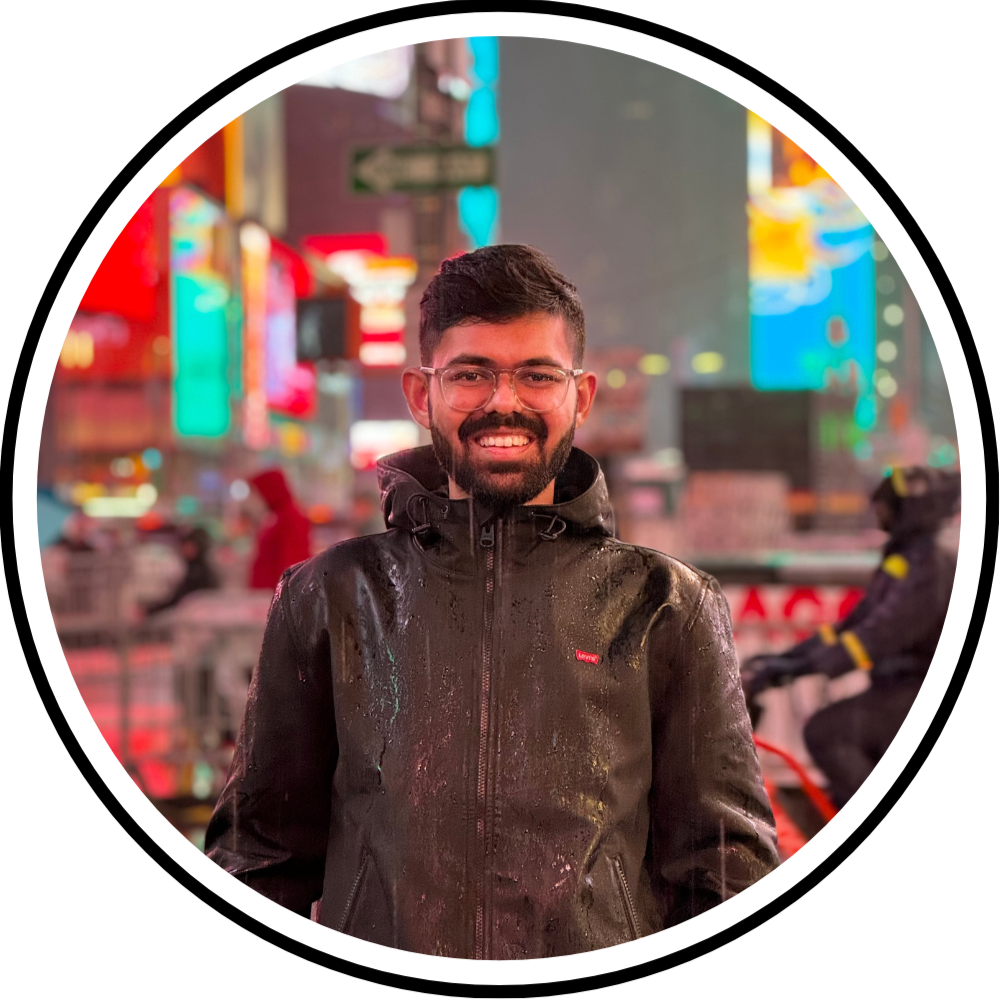
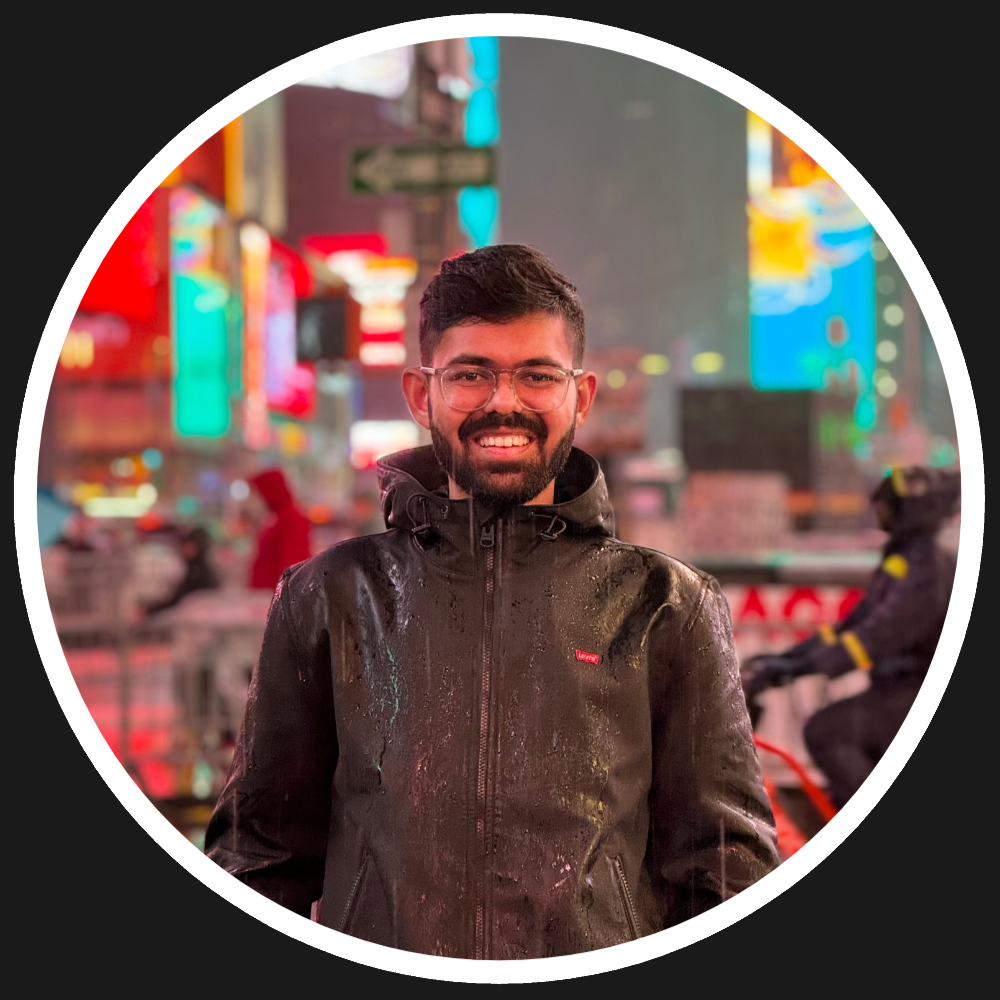
Update Portfolio

Changed region(s): [[0.0, 0.0, 1.0, 1.0]]

diff --git a/css/style.css b/css/style.css
@@ -7,9 +7,10 @@
   padding: 0;
 }
 
-
 body {
   font-family: "Poppins", sans-serif;
+  background-color: #1a1a1a; /* Dark background color */
+  color: #fff; /* Light text color */
 }
 
 html {
@@ -17,7 +18,7 @@ html {
 }
 
 p {
-  color: rgb(85, 85, 85);
+  color: #b3b3b3; /* Lighter text color */
 }
 
 /* TRANSITION */
@@ -38,6 +39,7 @@ nav {
   justify-content: space-around;
   align-items: center;
   height: 17vh;
+  background-color: #1a1a1a; /* Dark background color */
 }
 
 .nav-links {
@@ -47,16 +49,13 @@ nav {
 }
 
 a {
-  color: black;
+  color: #fff; /* Light text color */
   text-decoration: none;
-  text-decoration-color: white;
 }
 
 a:hover {
-  color: grey;
+  color: #ccc; /* Lighter hover text color */
   text-decoration: underline;
-  text-underline-offset: 1rem;
-  text-decoration-color: rgb(181, 181, 181);
 }
 
 .logo {
@@ -71,7 +70,6 @@ a:hover {
 
 #hamburger-nav {
   display: none;
-
 }
 
 .hamburger-menu {
@@ -92,7 +90,7 @@ a:hover {
 .hamburger-icon span {
   width: 100%;
   height: 2px;
-  background-color: black;
+  background-color: #fff; /* Light text color */
   transition: all 0.3s ease-in-out;
 }
 
@@ -100,7 +98,7 @@ a:hover {
   position: absolute;
   top: 100%;
   right: 0;
-  background-color: white;
+  background-color: #1a1a1a; /* Dark background color */
   width: fit-content;
   max-height: 0;
   overflow: hidden;
@@ -112,7 +110,7 @@ a:hover {
   padding: 10px;
   text-align: center;
   font-size: 1.5rem;
-  color: black;
+  color: #fff; /* Light text color */
   text-decoration: none;
   transition: all 0.3s ease-in-out;
 }
@@ -157,6 +155,7 @@ section {
   margin: 0 10rem;
   box-sizing: border-box;
   min-height: fit-content;
+  background-color: #1a1a1a; /* Dark background color */
 }
 
 .section-container {
@@ -165,12 +164,6 @@ section {
 
 /* PROFILE SECTION */
 
-/*#profile {*/
-/*  display: flex;*/
-/*  justify-content: center;*/
-/*  gap: 5rem;*/
-/*  height: 80vh;*/
-/*}*/
 #profile {
   display: flex;
   flex-direction: column;
@@ -179,12 +172,6 @@ section {
   height: 75vh;
   overflow: hidden;
 }
-/*.section__pic-container {*/
-/*  display: flex;*/
-/*  height: 400px;*/
-/*  width: 400px;*/
-/*  margin: auto 0;*/
-/*}*/
 
 .section__pic-container {
   display: flex;
@@ -266,7 +253,7 @@ section {
 
 .btn-color-1,
 .btn-color-2 {
-  border: rgb(53, 53, 53) 0.1rem solid;
+  border: rgb(255, 255, 255) 0.1rem solid;
 }
 
 .btn-color-1:hover,
@@ -285,7 +272,7 @@ section {
 }
 
 .btn-color-2 {
-  background: none;
+  background: rgb(255, 255, 255);
 }
 
 .btn-color-2:hover {
@@ -356,7 +343,7 @@ section {
 }
 
 .experience-sub-title {
-  color: rgb(85, 85, 85);
+  color: #b3b3b3; /* Lighter text color */
   font-weight: 600;
   font-size: 1.75rem;
   margin-bottom: 2rem;
@@ -407,11 +394,11 @@ article .icon {
 
 .project-title {
   margin: 1rem;
-  color: black;
+  color: #fff; /* Light text color */
 }
 
 .project-btn {
-  color: black;
+  color: #fff; /* Light text color */
   border-color: rgb(163, 163, 163);
 }
 
@@ -460,8 +447,10 @@ article .icon {
 footer {
   height: 26vh;
   margin: 0 1rem;
+  background-color: #1a1a1a; /* Dark background color */
 }
 
 footer p {
   text-align: center;
+  color: #fff; /* Light text color */
 }
